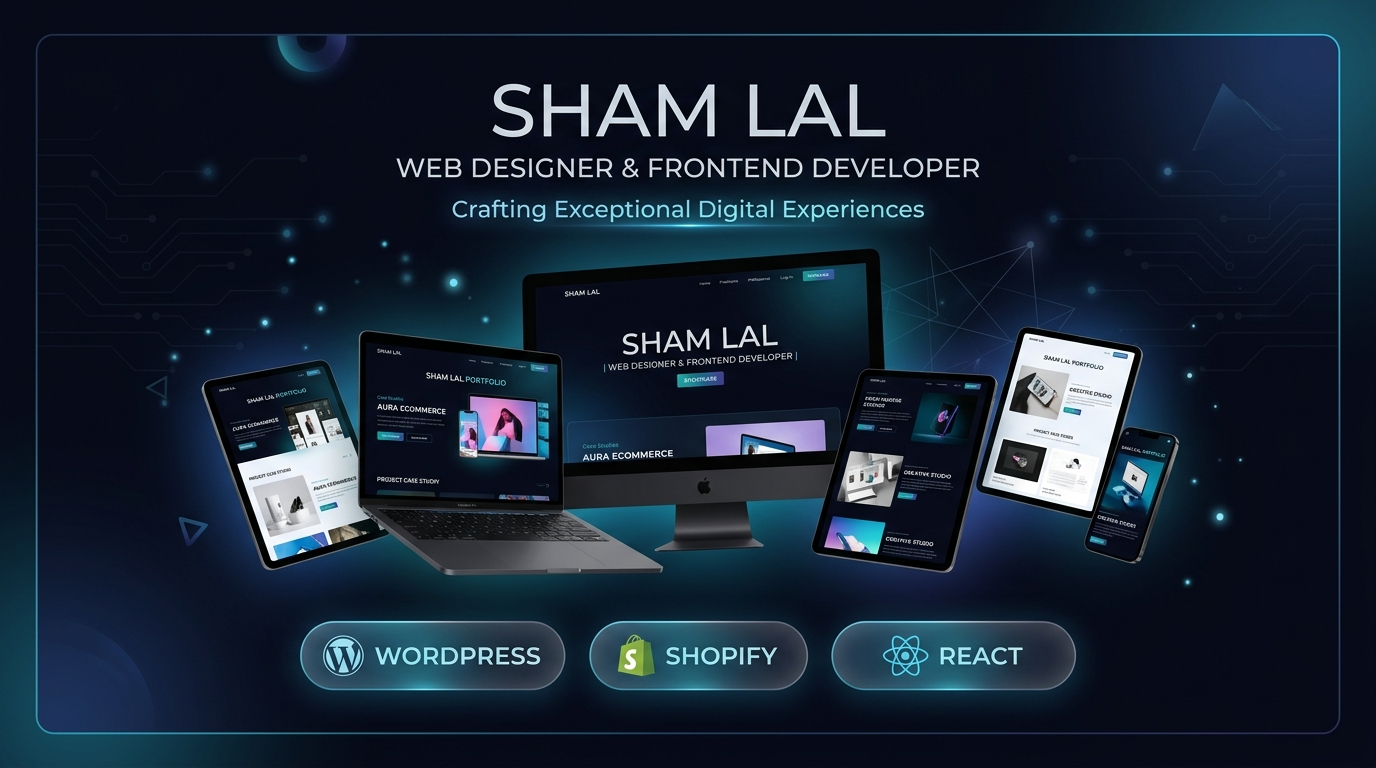
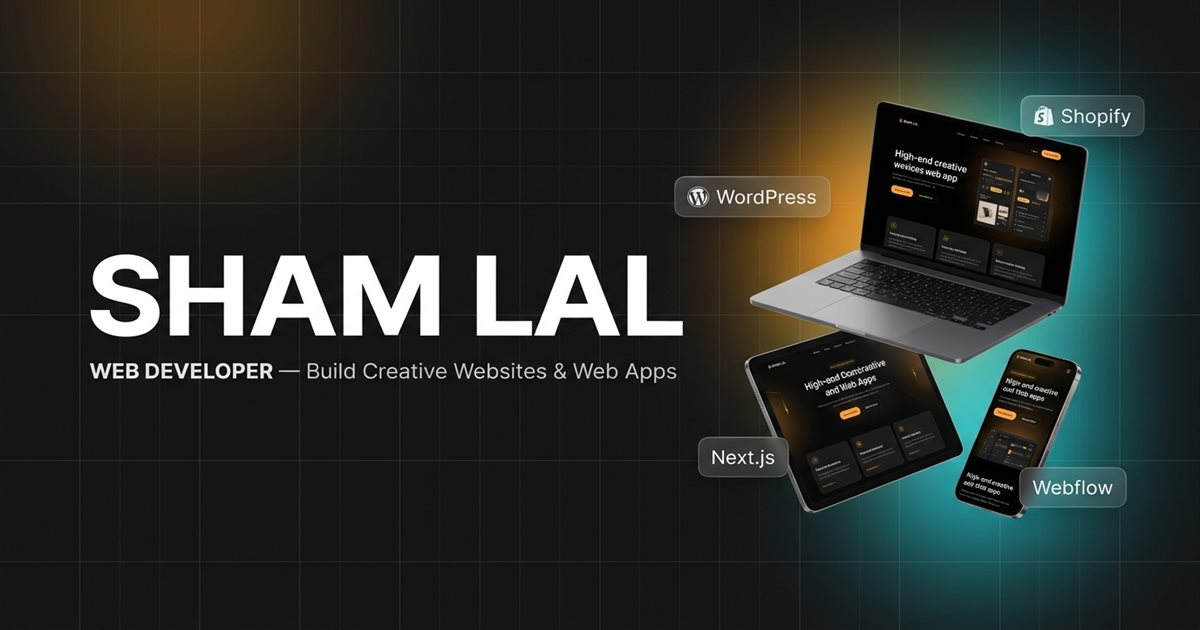
feat: update email to thakur@shamdev.in, role to Web Developer, and fix OG share preview for shamdev.in

diff --git a/src/app/layout.tsx b/src/app/layout.tsx
@@ -4,26 +4,22 @@ import { Navbar } from "@/components/Navbar";
 import { Footer } from "@/components/Footer";
 import { SITE_CONFIG } from "@/data/siteConfig";
 
-const siteBaseUrl =
-  process.env.NEXT_PUBLIC_SITE_URL ||
-  (process.env.VERCEL_PROJECT_PRODUCTION_URL
-    ? `https://${process.env.VERCEL_PROJECT_PRODUCTION_URL}`
-    : process.env.VERCEL_URL
-      ? `https://${process.env.VERCEL_URL}`
-      : SITE_CONFIG.siteUrl);
+const siteBaseUrl = process.env.NEXT_PUBLIC_SITE_URL || "https://shamdev.in";
 
 export const metadata: Metadata = {
   metadataBase: new URL(siteBaseUrl),
   title: {
-    default: "Sham Lal — Web Designer & Frontend Developer",
+    default: "Sham Lal — Web Developer | Build Creative Websites & Web Apps",
     template: "%s — Sham Lal",
   },
   description:
-    "Sham Lal is a Web Designer and Frontend Developer specializing in modern websites, WordPress, Shopify, CMS and responsive frontend development.",
+    "Sham Lal is a Web Developer building creative websites and web apps. Specialized in modern responsive websites, Next.js, WordPress, Shopify, and interactive digital experiences.",
   keywords: [
     "Sham Lal",
-    "Web Designer",
+    "Web Developer",
     "Frontend Developer",
+    "Build Creative Websites",
+    "Web Apps",
     "WordPress Developer",
     "Shopify Storefront",
     "CMS Development",
@@ -33,35 +29,33 @@ export const metadata: Metadata = {
     "Wix",
     "HubSpot CMS",
     "Responsive Web Design",
-    "Chandigarh Web Designer",
-    "Mohali Frontend Developer",
   ],
   authors: [{ name: SITE_CONFIG.name, url: siteBaseUrl }],
   creator: SITE_CONFIG.name,
   openGraph: {
     type: "website",
     locale: "en_US",
-    url: siteBaseUrl,
+    url: "https://shamdev.in",
     siteName: "Sham Lal Portfolio",
-    title: "Sham Lal — Web Designer & Frontend Developer",
+    title: "Sham Lal — Web Developer | Build Creative Websites & Web Apps",
     description:
-      "Sham Lal is a Web Designer and Frontend Developer specializing in modern websites, WordPress, Shopify, CMS and responsive frontend development.",
+      "Sham Lal — Web Developer. Build creative websites and web apps with modern design, Next.js, WordPress, and Shopify.",
     images: [
       {
-        url: "/og-image.jpg",
+        url: "https://shamdev.in/og-image.jpg",
         width: 1200,
         height: 630,
         type: "image/jpeg",
-        alt: "Sham Lal — Web Designer & Frontend Developer Portfolio",
+        alt: "Sham Lal — Web Developer | Build Creative Websites & Web Apps",
       },
     ],
   },
   twitter: {
     card: "summary_large_image",
-    title: "Sham Lal — Web Designer & Frontend Developer",
+    title: "Sham Lal — Web Developer | Build Creative Websites & Web Apps",
     description:
-      "Sham Lal is a Web Designer and Frontend Developer specializing in modern websites, WordPress, Shopify, CMS and responsive frontend development.",
-    images: ["/og-image.jpg"],
+      "Sham Lal — Web Developer. Build creative websites and web apps with modern design, Next.js, WordPress, and Shopify.",
+    images: ["https://shamdev.in/og-image.jpg"],
   },
   icons: {
     icon: [
@@ -82,10 +76,11 @@ const jsonLd = {
   "@context": "https://schema.org",
   "@type": "Person",
   name: "Sham Lal",
-  jobTitle: "Web Designer & Frontend Developer",
-  url: SITE_CONFIG.siteUrl,
+  jobTitle: "Web Developer",
+  url: "https://shamdev.in",
   sameAs: [SITE_CONFIG.github, SITE_CONFIG.linkedin],
   knowsAbout: [
+    "Web Development",
     "Web Design",
     "Frontend Development",
     "WordPress",
@@ -97,7 +92,7 @@ const jsonLd = {
     "HubSpot CMS",
   ],
   description:
-    "Sham Lal is a Web Designer and Frontend Developer specializing in modern websites, WordPress, Shopify, CMS and responsive frontend development.",
+    "Sham Lal is a Web Developer building creative websites and web apps. Specialized in modern responsive websites, Next.js, WordPress, Shopify, and interactive digital experiences.",
 };
 
 export default function RootLayout({
@@ -118,6 +113,14 @@ export default function RootLayout({
           href="https://fonts.googleapis.com/css2?family=Manrope:wght@400;500;600;700;800&family=Roboto:wght@400;500;700;900&display=swap"
           rel="stylesheet"
         />
+        {/* Explicit Social / WhatsApp / Telegram OpenGraph Meta Tags */}
+        <meta property="og:image" content="https://shamdev.in/og-image.jpg" />
+        <meta property="og:image:secure_url" content="https://shamdev.in/og-image.jpg" />
+        <meta property="og:image:type" content="image/jpeg" />
+        <meta property="og:image:width" content="1200" />
+        <meta property="og:image:height" content="630" />
+        <meta property="og:image:alt" content="Sham Lal — Web Developer | Build Creative Websites & Web Apps" />
+        <meta name="twitter:image" content="https://shamdev.in/og-image.jpg" />
         <script
           type="application/ld+json"
           dangerouslySetInnerHTML={{ __html: JSON.stringify(jsonLd) }}

diff --git a/src/data/siteConfig.ts b/src/data/siteConfig.ts
@@ -1,19 +1,19 @@
 export const SITE_CONFIG = {
   name: "Sham Lal",
-  title: "Sham Lal — Web Designer & Frontend Developer",
+  title: "Sham Lal — Web Developer | Build Creative Websites & Web Apps",
   shortTitle: "Sham",
-  role: "Web Designer & Frontend Developer",
+  role: "Web Developer",
   location: "India",
-  headline: "I design & build websites that move businesses forward.",
-  subheadline: "Web Design, Frontend Development, CMS & E-commerce for modern brands and growing businesses.",
-  supportingText: "From design and development to CMS, e-commerce and ongoing improvements.",
-  trustStatement: "Design → Frontend → CMS / E-commerce → Launch",
-  experienceYears: "4 years of professional experience",
-  email: "thakursammi1233@gmail.com",
+  headline: "I build creative websites & web apps that move businesses forward.",
+  subheadline: "Creative Websites, Modern Web Apps, WordPress & Shopify for modern brands and growing businesses.",
+  supportingText: "From concept and UI design to full frontend development, CMS, and high-performance web applications.",
+  trustStatement: "Design → Development → CMS / E-Commerce → Launch",
+  experienceYears: "4+ years of professional experience",
+  email: "thakur@shamdev.in",
   phone: "+91-7876525326",
   github: "https://github.com/ShamLal07",
   linkedin: "https://www.linkedin.com/in/sham-dev/",
   resumeUrl: "https://drive.google.com/file/d/1z0V5Ms3hnpMtQ2jbnFL_yHjpsgPBXtg8/view?usp=sharing",
-  metaDescription: "Sham Lal is a Web Designer and Frontend Developer specializing in modern websites, WordPress, Shopify, CMS and responsive frontend development.",
-  siteUrl: "https://shamlal.dev"
+  metaDescription: "Sham Lal — Web Developer. Build creative websites and web apps. Specialized in modern responsive websites, Next.js, WordPress, Shopify, and interactive digital experiences.",
+  siteUrl: "https://shamdev.in"
 };

diff --git a/src/components/ContactCTA.tsx b/src/components/ContactCTA.tsx
@@ -40,7 +40,7 @@ export function ContactCTA() {
                     Contact Me
                   </span>
                   <span className="col-start-1 row-start-1 flex items-center justify-center whitespace-nowrap leading-none transition-transform duration-300 ease-out translate-y-[140%] group-hover:translate-y-0 text-amber-100 font-extrabold">
-                    Say Hello →
+                    Say Hello
                   </span>
                 </span>
                 <ArrowRight className="w-4 h-4 text-amber-200 transform transition-transform duration-300 group-hover:translate-x-1" />

diff --git a/src/components/Hero.tsx b/src/components/Hero.tsx
@@ -42,7 +42,7 @@ export function Hero() {
           <span className="text-amber-400">
             <Sparkles className="w-3.5 h-3.5 inline" />
           </span>
-          <span>Web Designer &amp; Frontend Developer</span>
+          <span>Web Developer — Creative Websites &amp; Web Apps</span>
         </div>
 
         {/* Impactful Centered Headline matching reference layout */}

diff --git a/src/app/contact/page.tsx b/src/app/contact/page.tsx
@@ -34,7 +34,7 @@ export default function ContactPage() {
     setErrorMessage("");
 
     try {
-      // Real email submission via FormSubmit to thakursammi1233@gmail.com
+      // Real email submission via FormSubmit to thakur@shamdev.in
       const response = await fetch(`https://formsubmit.co/ajax/${SITE_CONFIG.email}`, {
         method: "POST",
         headers: {

diff --git a/src/components/Navbar.tsx b/src/components/Navbar.tsx
@@ -75,7 +75,7 @@ export function Navbar() {
                 isDark ? "text-white/50" : "text-slate-400"
               }`}
             >
-              Designer &amp; Developer
+              Web Developer
             </span>
           </div>
         </Link>
